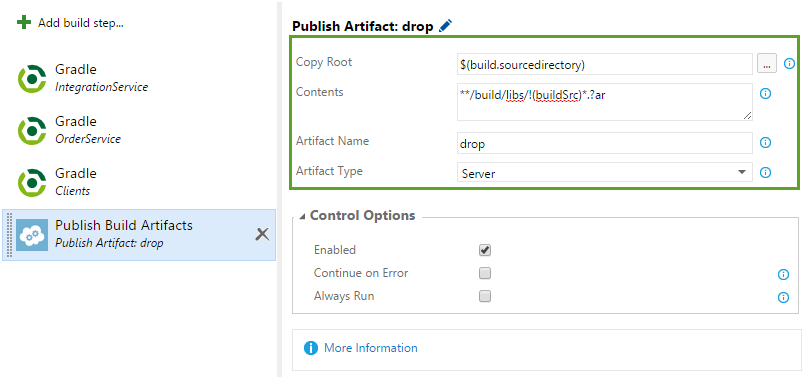
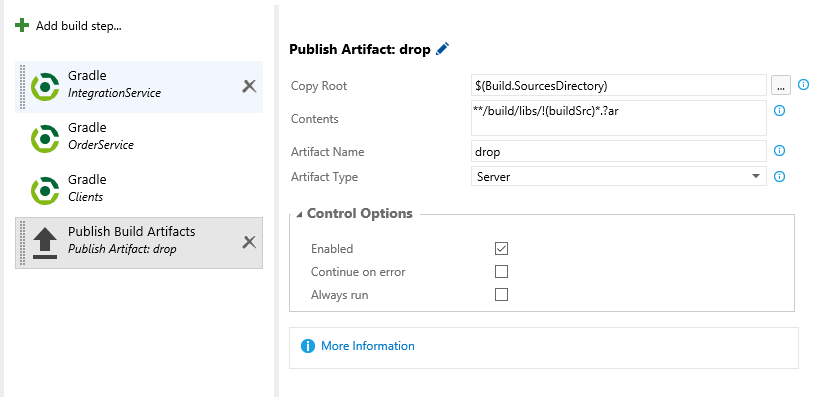
updated build publishing step details

diff --git a/docs/HOL_Continuous-Integration-with-Visual-Studio-Online-Build/HOL_Continuous-Integration-with-Visual-Studio-Online-Build.md b/docs/HOL_Continuous-Integration-with-Visual-Studio-Online-Build/HOL_Continuous-Integration-with-Visual-Studio-Online-Build.md
@@ -281,7 +281,7 @@ Set the **Working Directory** to the following location:
 **10.** Select the Publish Build Artifacts task, and fill in the input values
 with the following:
 
-	Copy Root: $(build.sourcedirectory)
+	Copy Root: $(Build.SourcesDirectory)
 	Contents: **/build/libs/!(buildSrc)*.?ar
 	Artifact Name: drop
 	Artifact Type: Server
